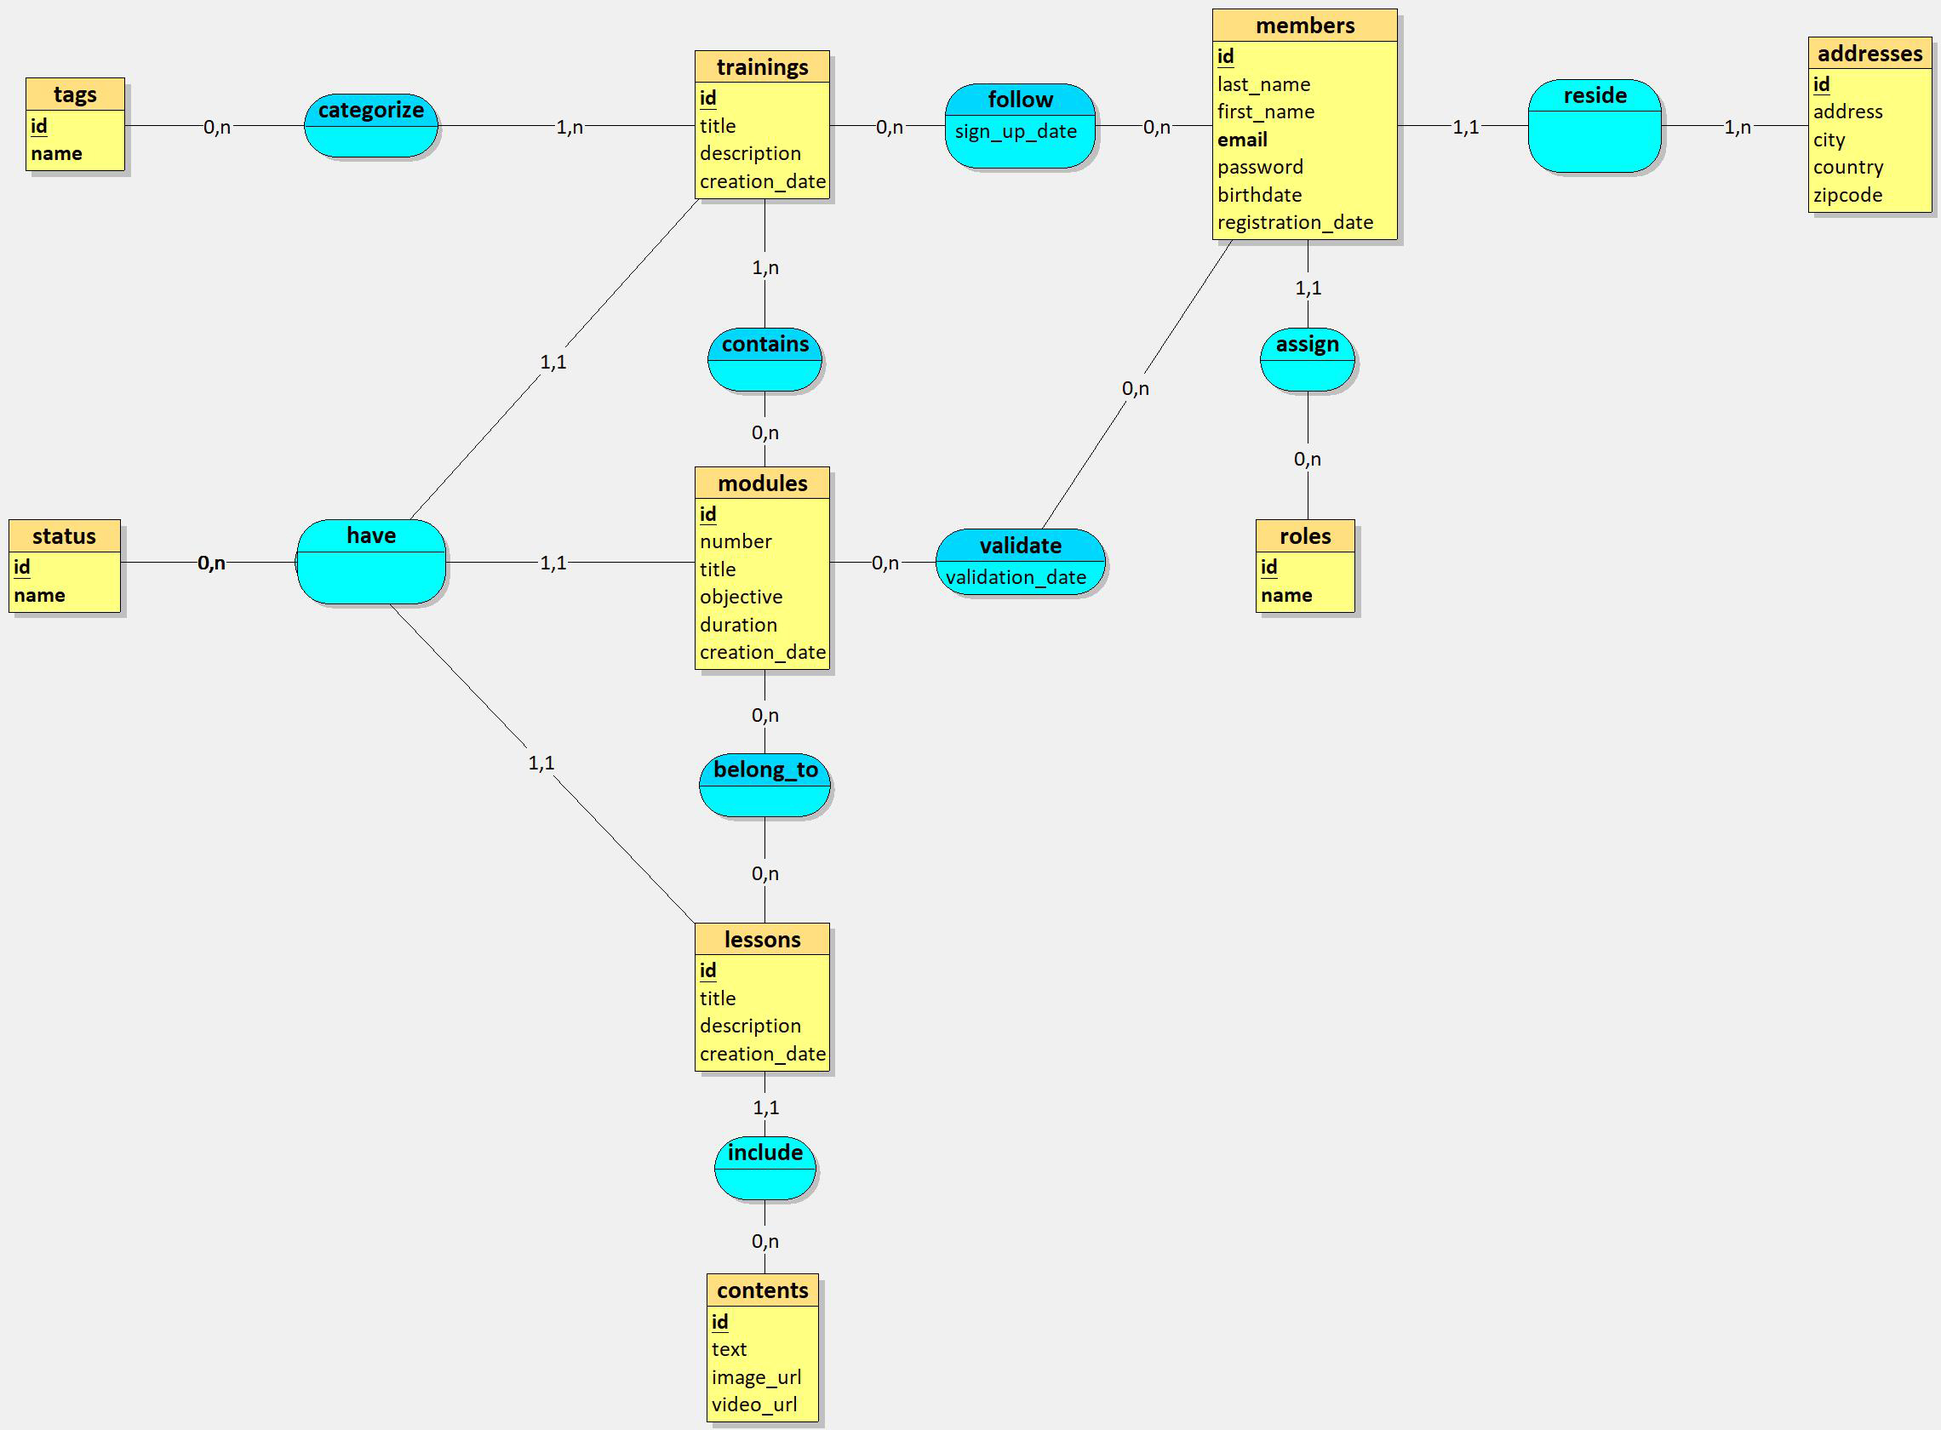
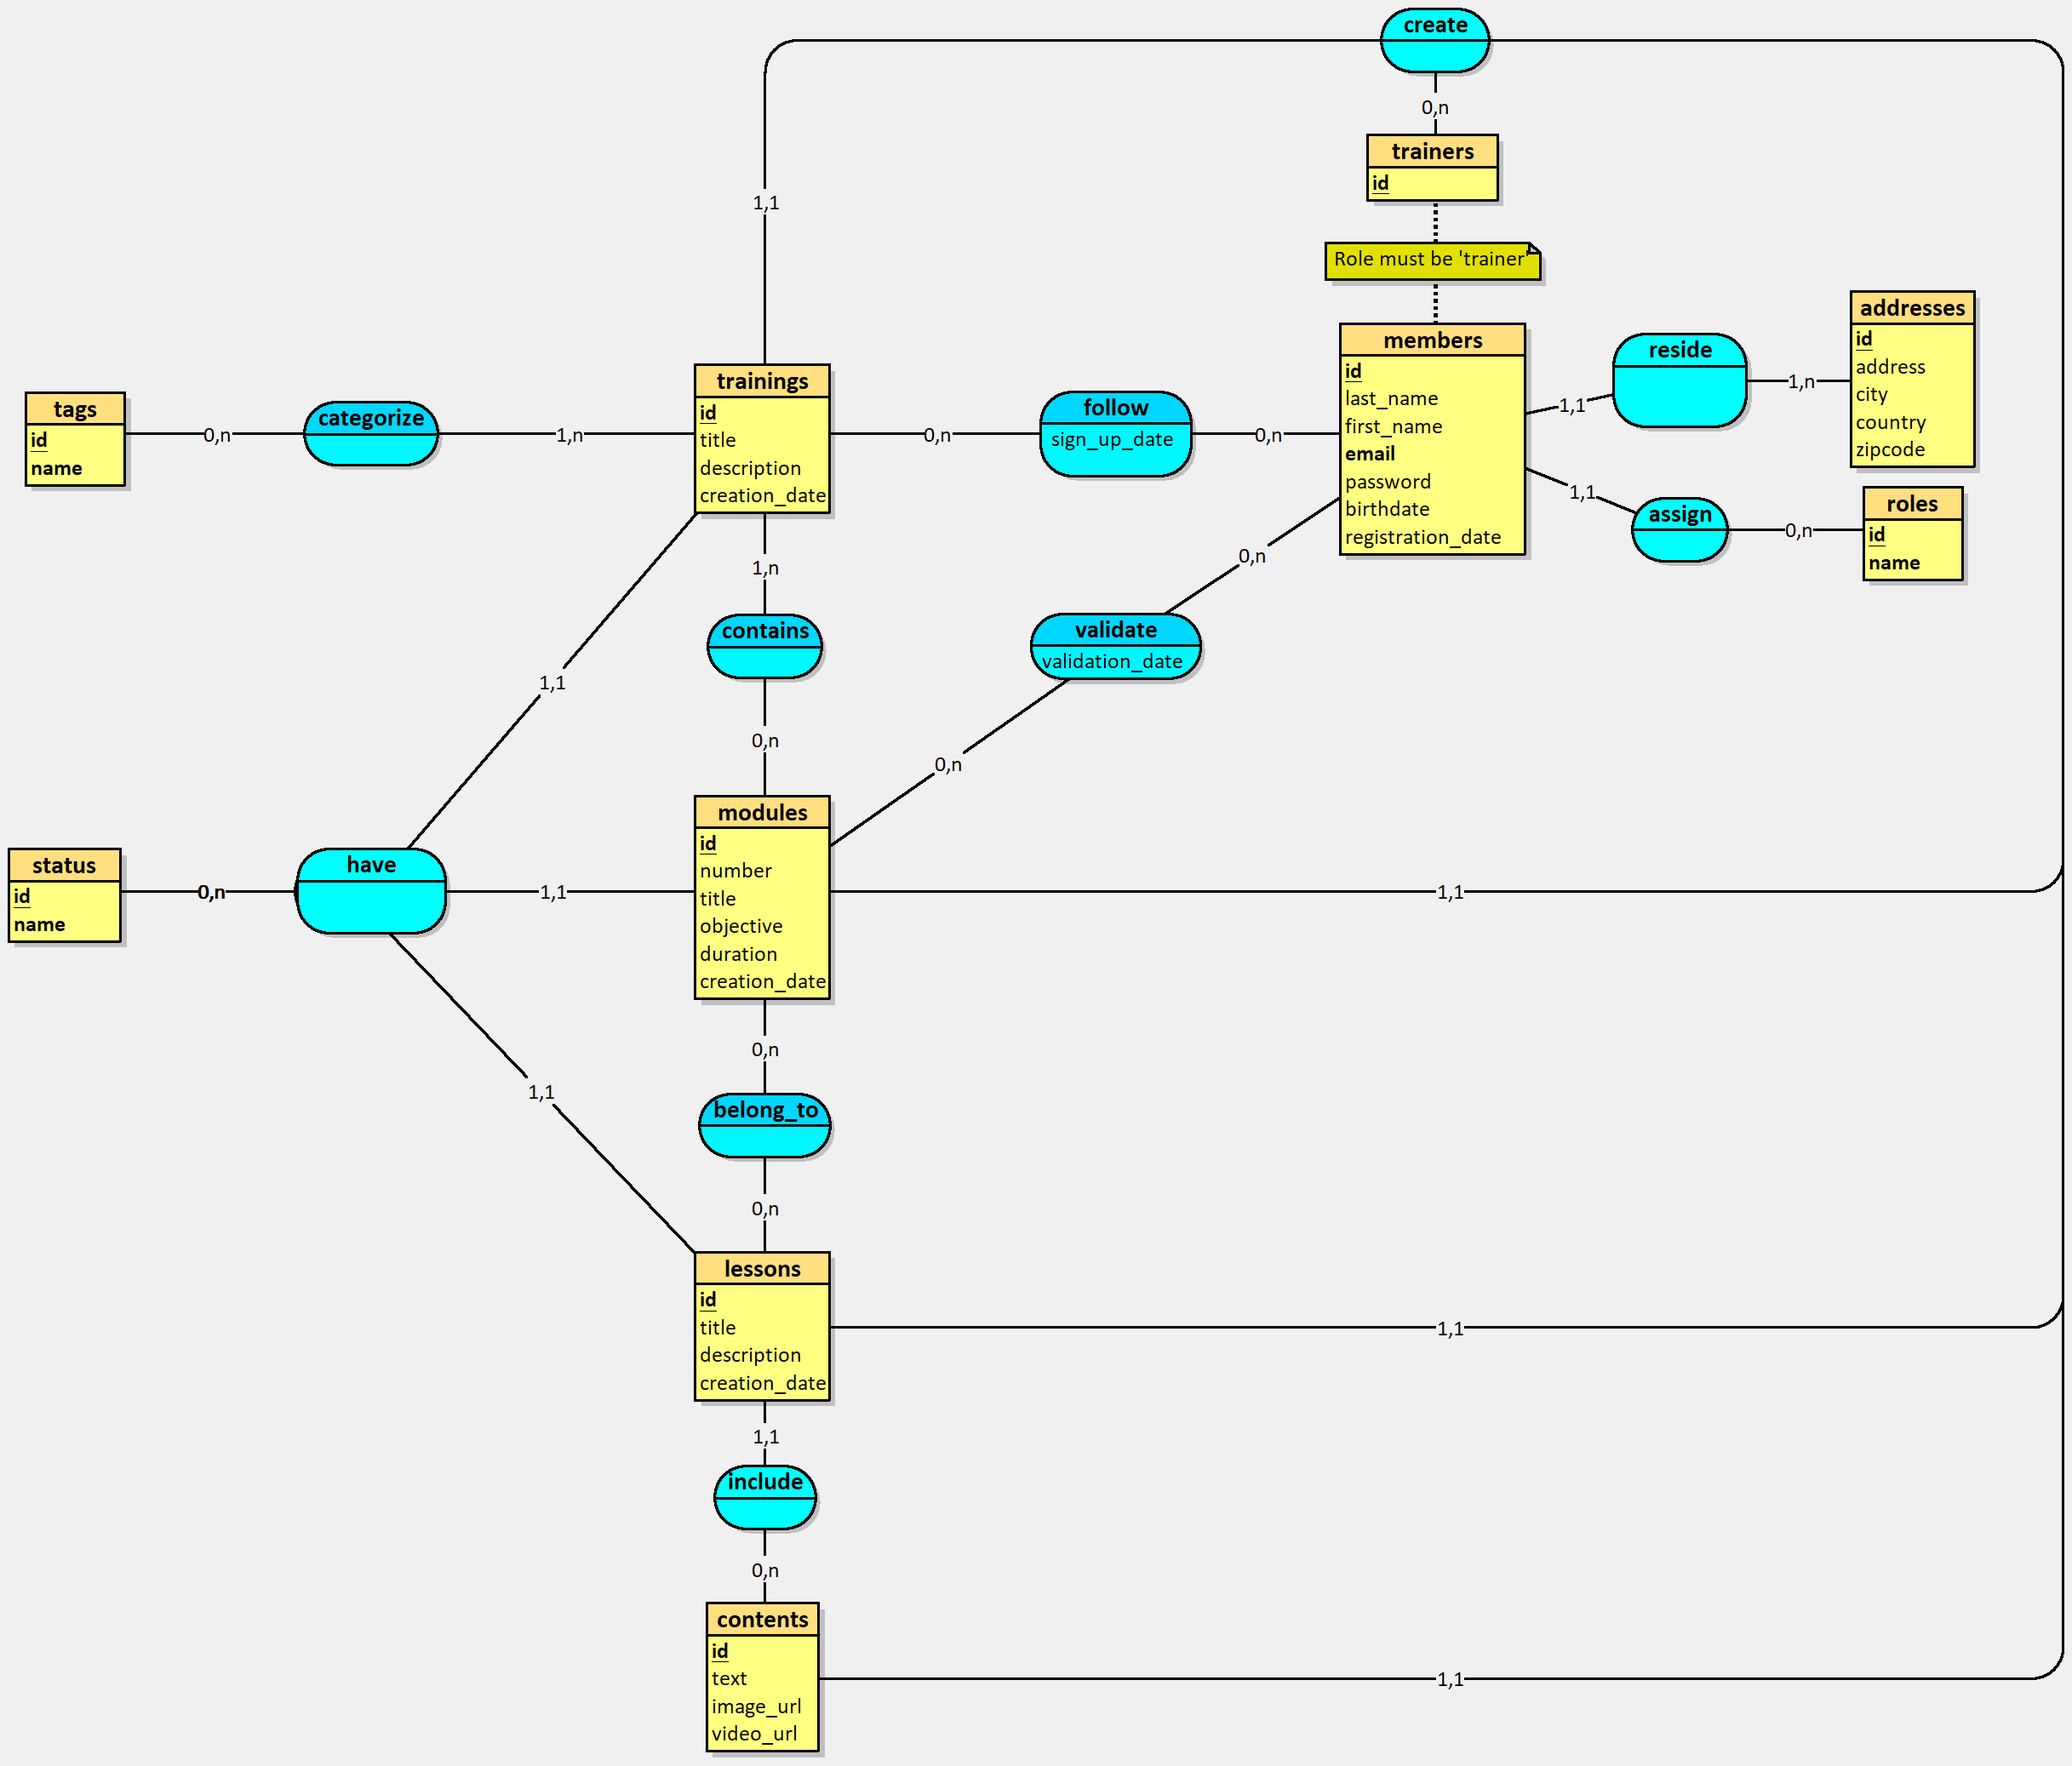
docs: updated mcd and add explanation for the cardinalities

diff --git a/mcd.md b/mcd.md
@@ -1,1 +1,35 @@
 ![mcd](assets/mcd.jpg)
+
+---
+
+## Explication des cardinalités
+
+### 1. Association "reside" entre **members** et **addresses**
+- Un membre doit avoir exactement une adresse **(1,1)**, et une adresse peut être associée à un ou plusieurs membres **(1,n)**.
+
+### 2. Association "assign" entre **members** et **roles**
+- Un membre doit avoir exactement un rôle **(1,1)**, et un rôle peut être attribué à zéro ou plusieurs membres **(0,n)**.
+
+### 3. Association "follow" entre **members** et **trainings**
+- Un membre peut suivre zéro ou plusieurs formations **(0,n)**, et une formation peut être suivie par un ou plusieurs membres **(1,n)**.
+
+### 4. Association "validate" entre **members** et **modules**
+- Un membre peut valider zéro ou plusieurs modules **(0,n)**, et un module peut être valider par zéro ou plusieurs membres **(0,n)**.
+
+### 4. Association "create" entre **members/trainers** et **trainings/modules/lessons/contents**
+- Un membre est considéré comme formateur si son role est égal à trainer et peut créer zéro ou plusieurs formations/modules/leçons/contenus **(0,n)**, et une formation/module/leçon/contenu est forcement rattaché à un formateur (auteur) **(1,1)**.
+
+### 5. Association "categorize" entre **trainings** et **tags**
+- Une formation peut être catégorisée avec un ou plusieurs tags **(1,n)**, et un tag peut être associé à zéro ou plusieurs formations **(0,n)**.
+
+### 6. Association "contains" entre **trainings** et **modules**
+-  Une formation peut contenir un ou plusieurs modules **(1,n)**, et un module peut être contenus dans zéro ou plusieurs formations **(0,n)**.
+
+### 7. Association "belong_to" entre **modules** et **lessons**
+- Un module peut appartenir à un zéro ou plusieurs leçons **(0,n)**, et une leçon peut appartenir à zéro ou plusieurs modules **(0,n)**.
+
+### 8. Association "include" entre **lessons** et **contents**
+- Une leçon peut inclure un ou plusieurs contenus **(1,n)**, et un contenu peut être inclus dans zéro ou plusieurs leçons **(0,n)**.
+
+### 9. Association "have" entre **trainings/modules/lessons** et **status**
+- Une formation, un module ou une leçon doit avoir exactement un statut **(1,1)**, et un statut peut être associé à zéro ou plusieurs formations, modules ou leçons **(0,n)**.
